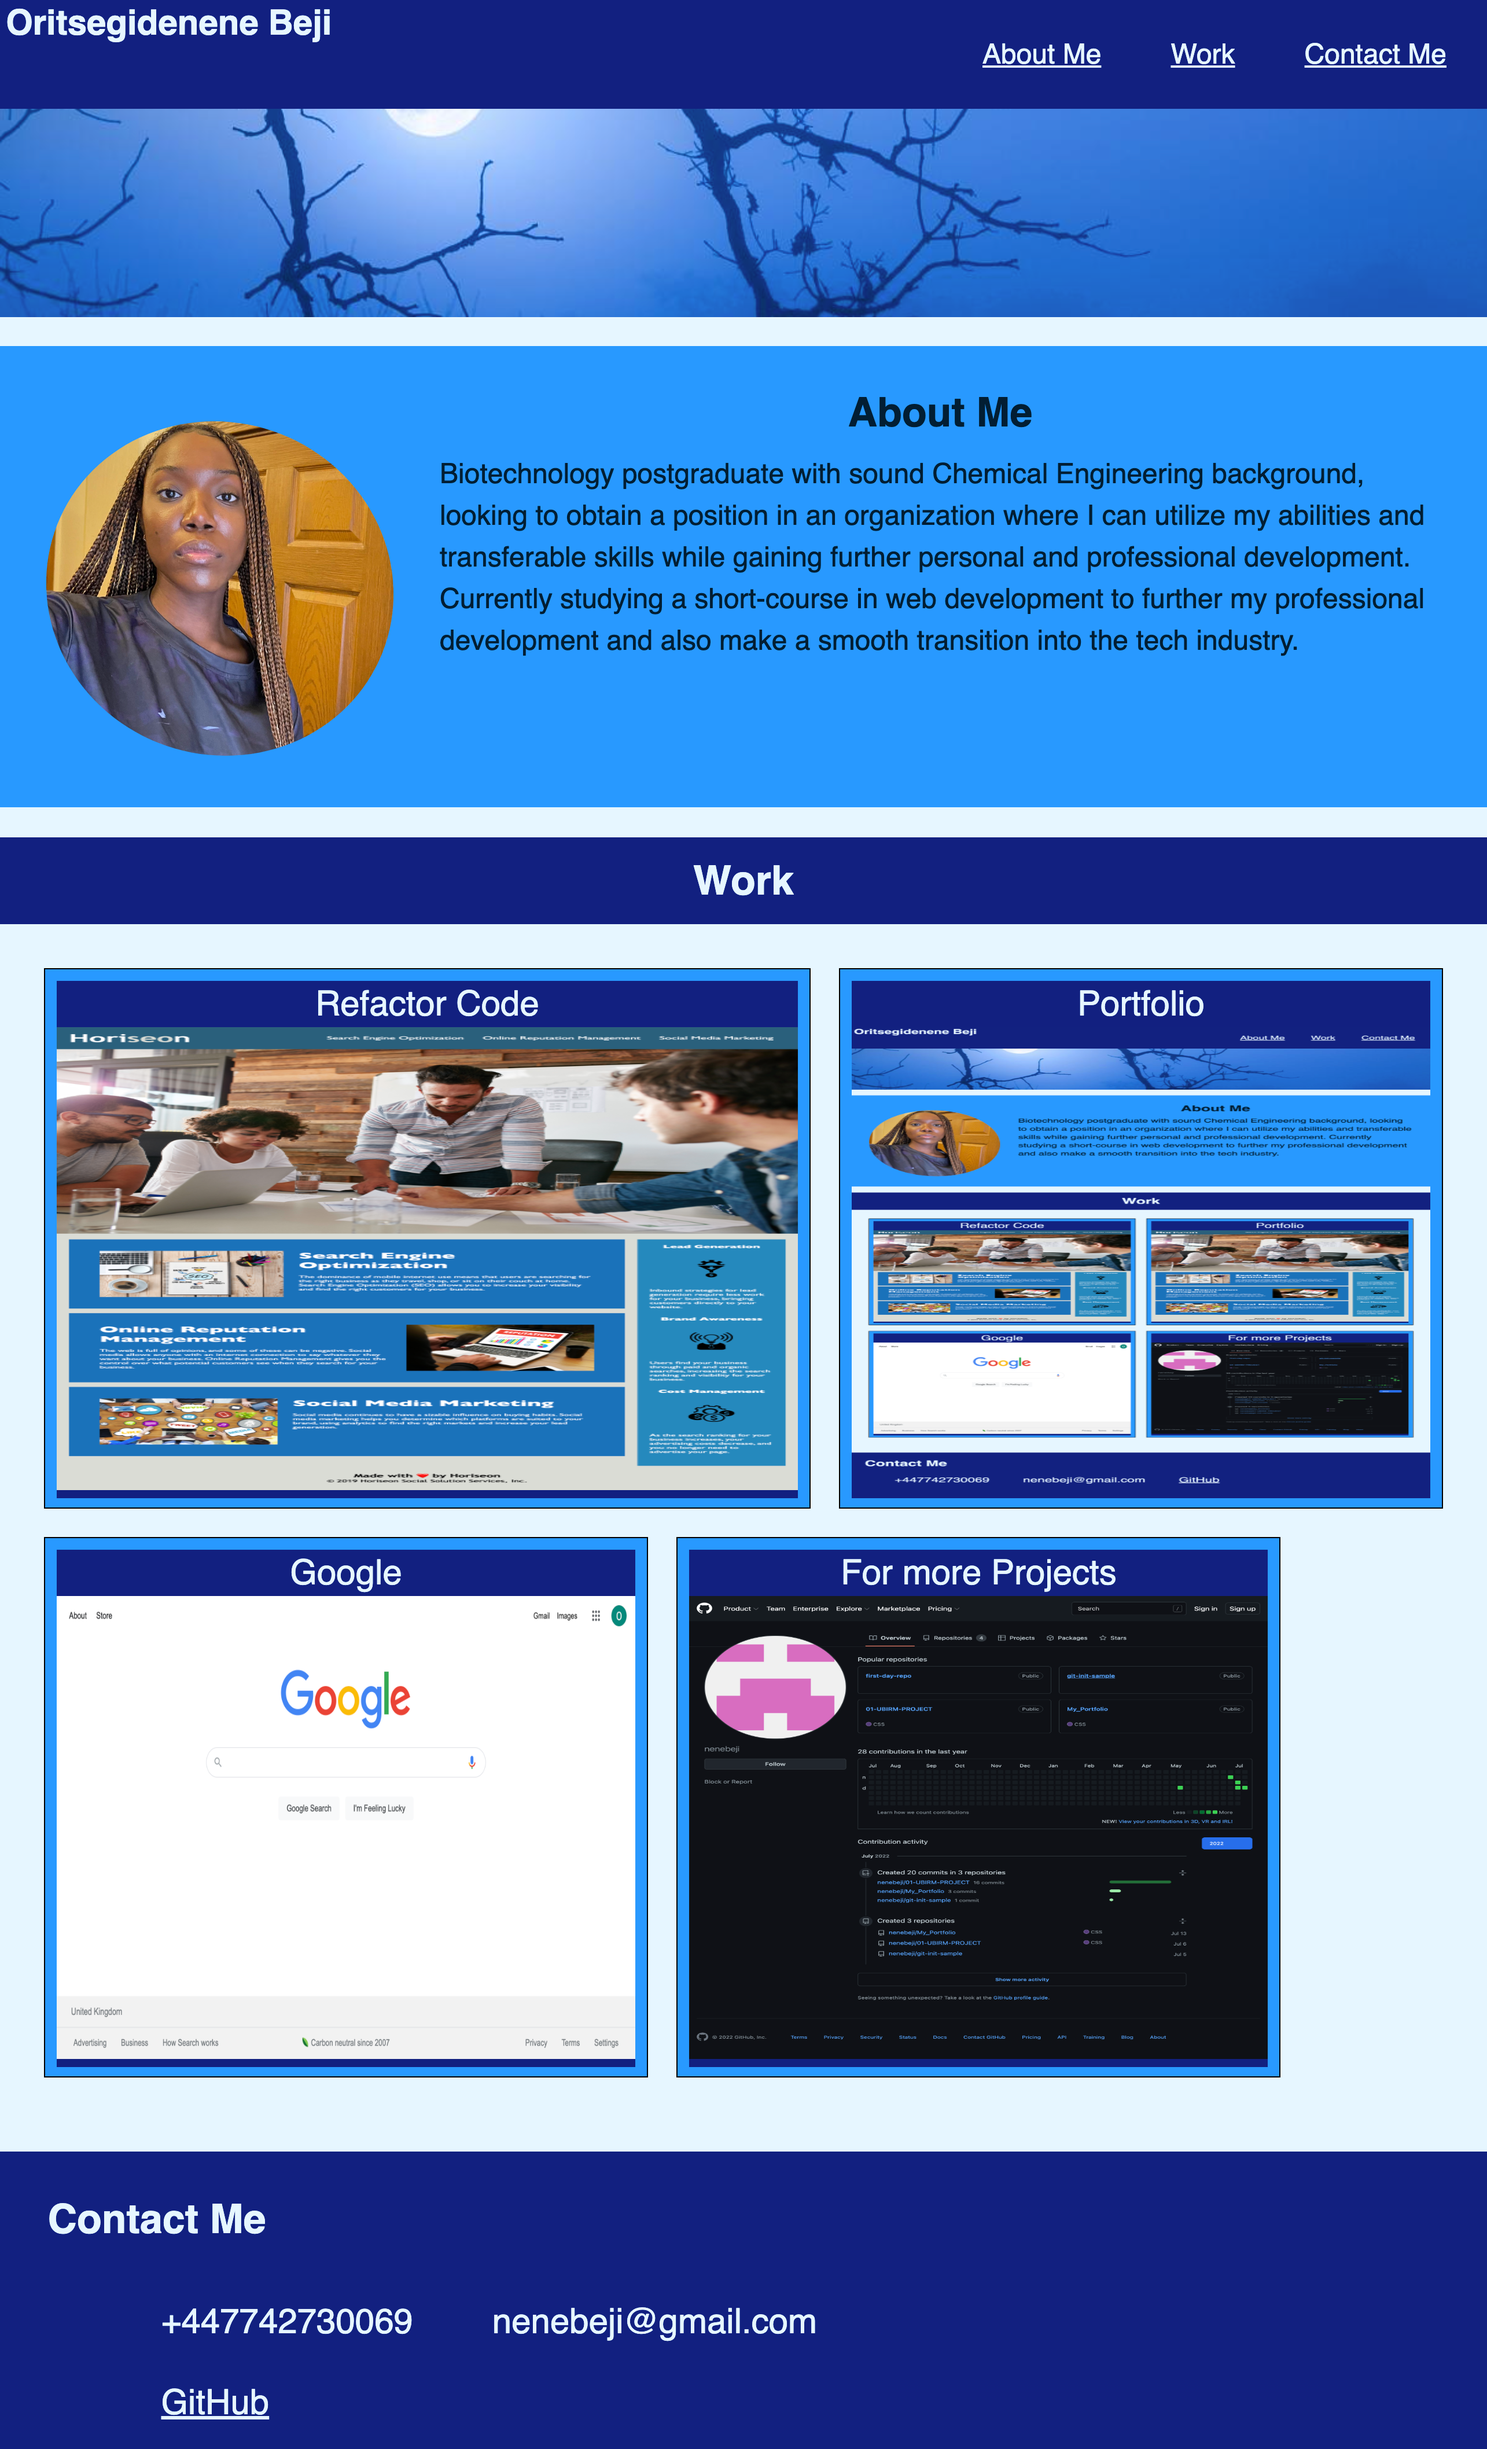
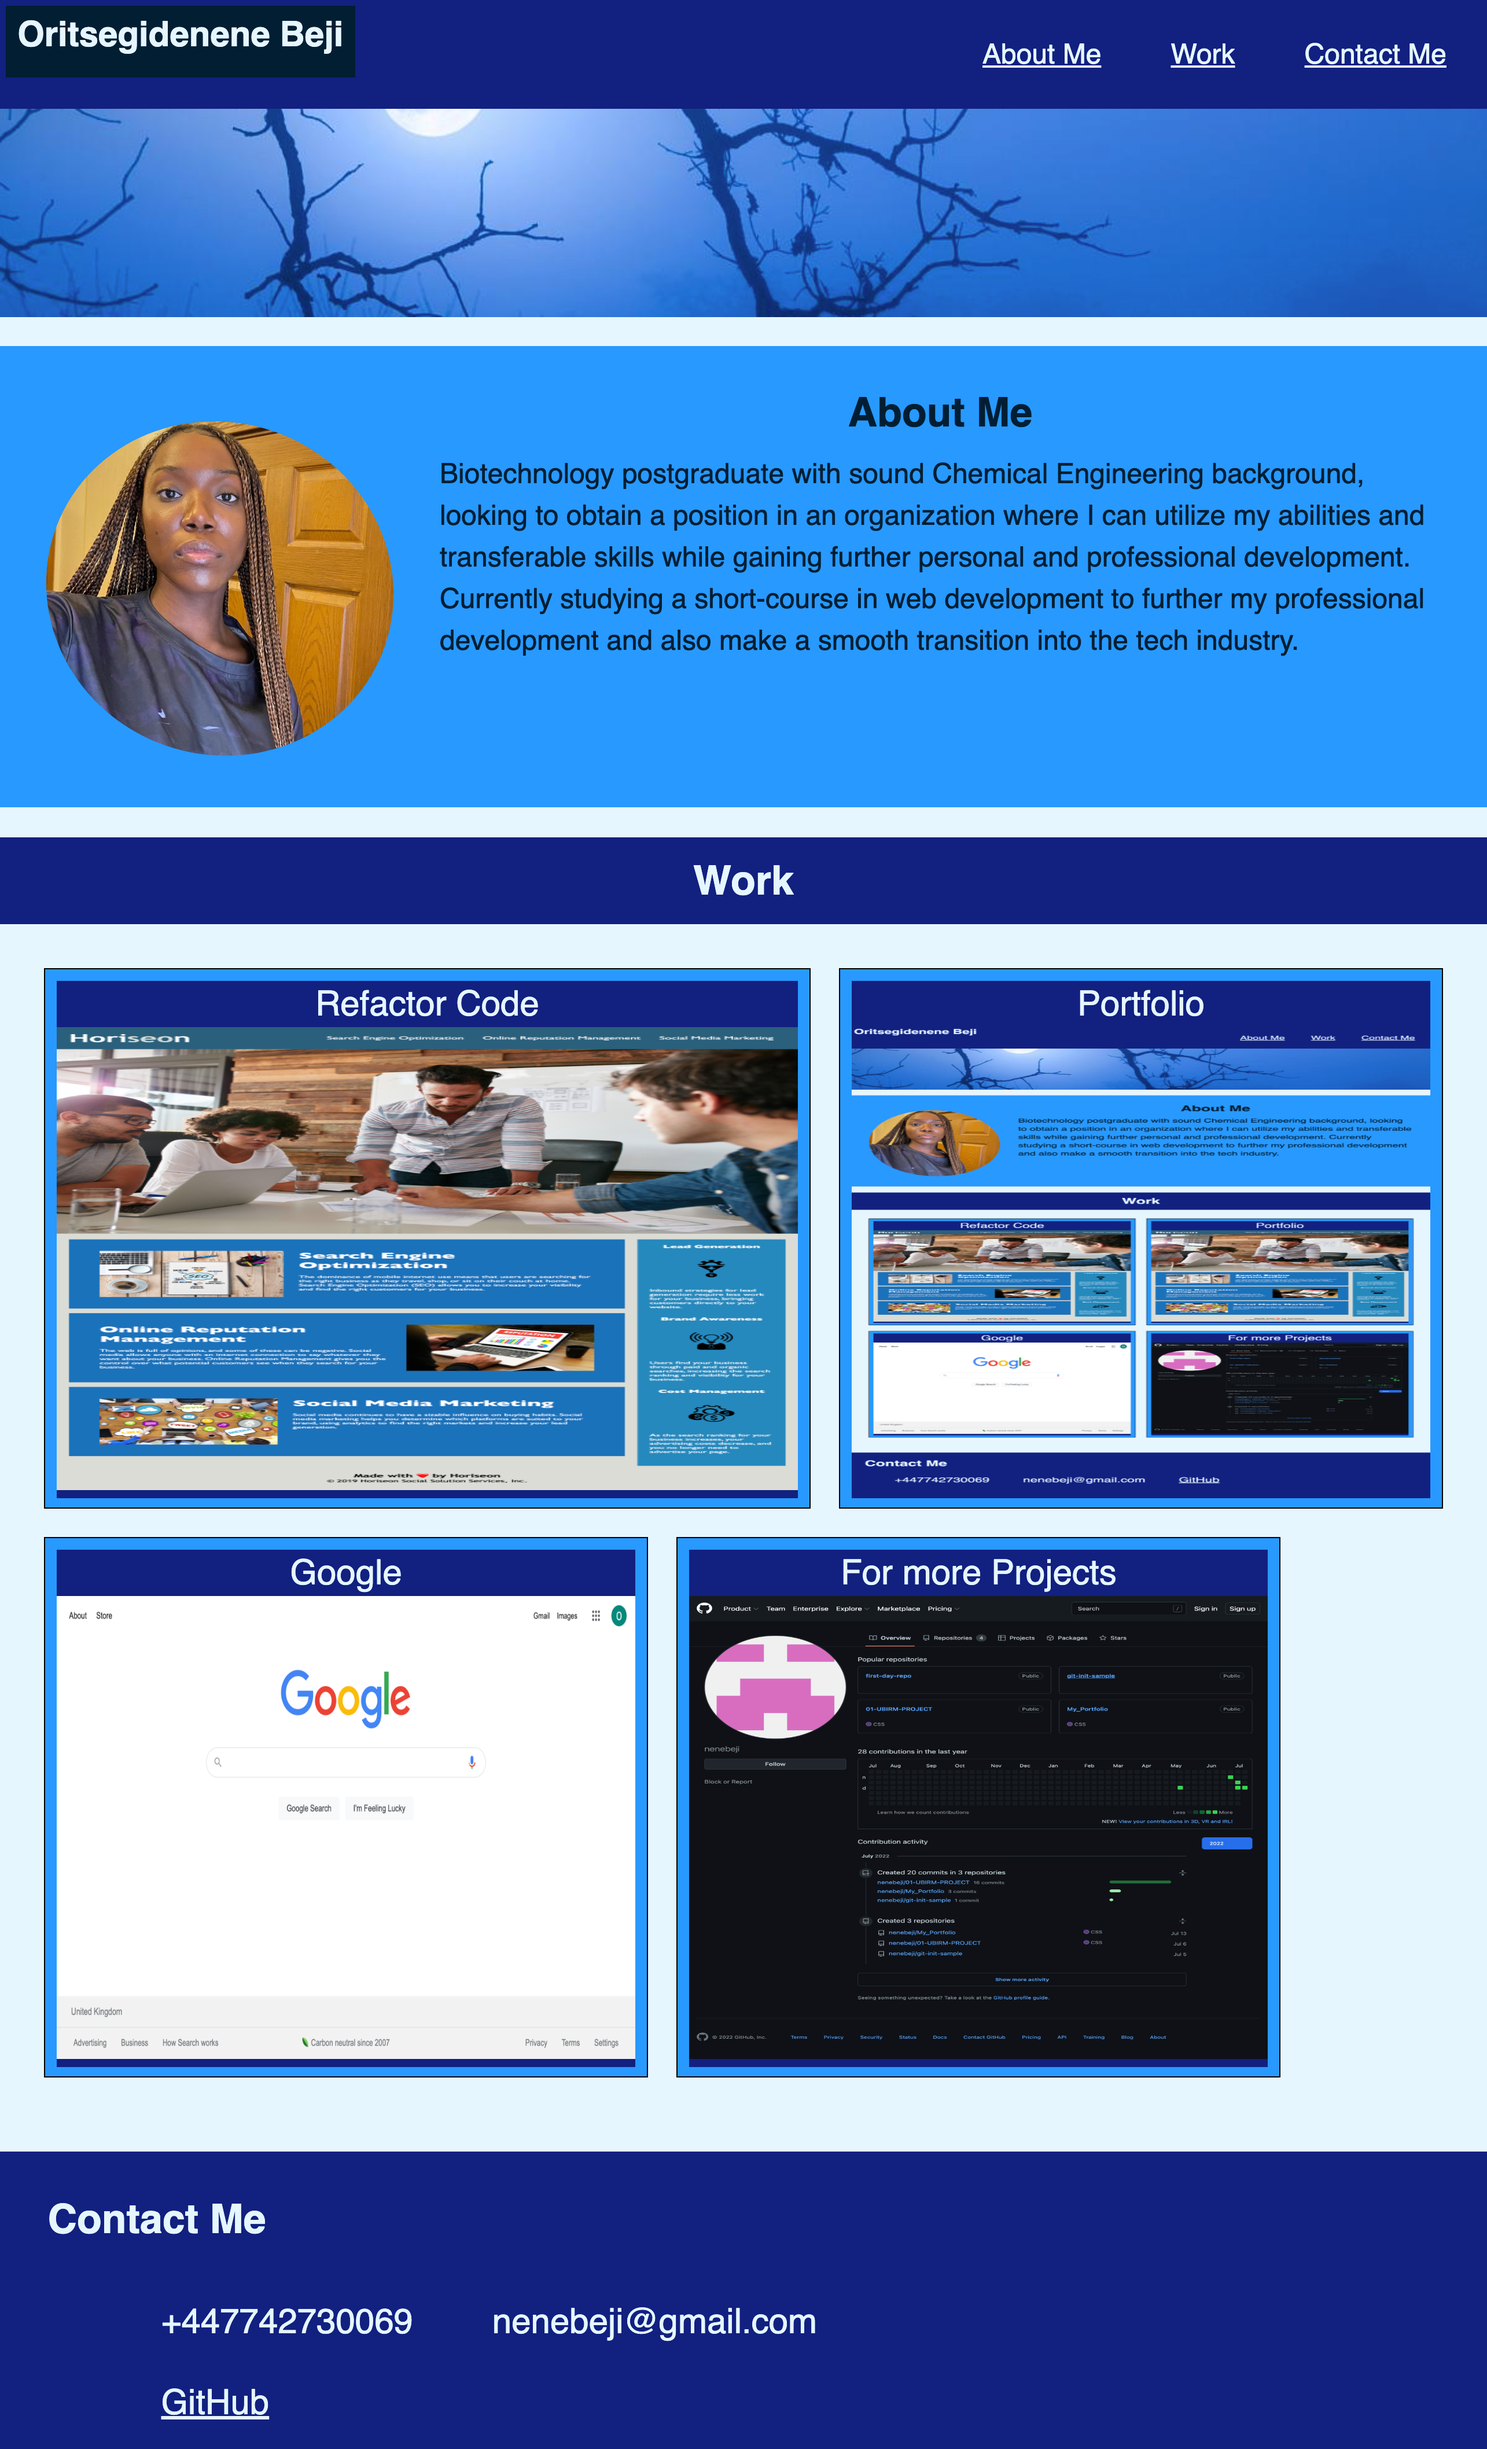
changed name background colour

Changed region(s): [[0.0, 0.0, 0.249, 0.0312]]

diff --git a/assets/css/style.css b/assets/css/style.css
@@ -33,6 +33,13 @@ header {
     min-width: 500px;
 }
 
+h1 {
+    background-color: var(--text);
+    padding: 10px;
+    text-align: center;
+    margin-bottom: 22px;
+}
+
 header nav ul {
     display: flex;
     justify-content: space-between;
